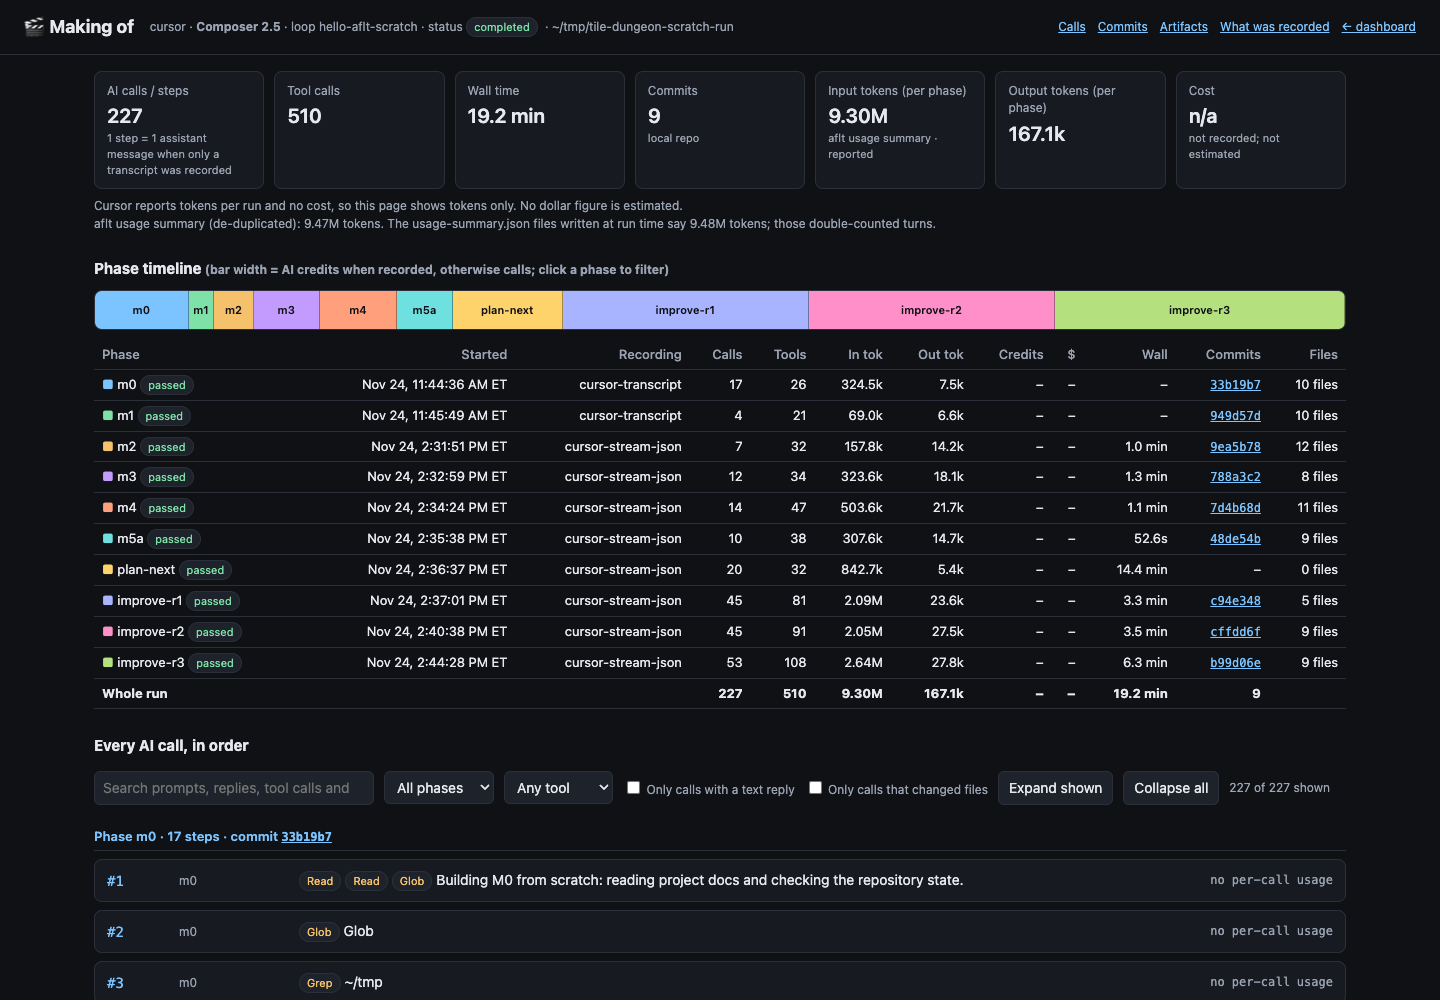
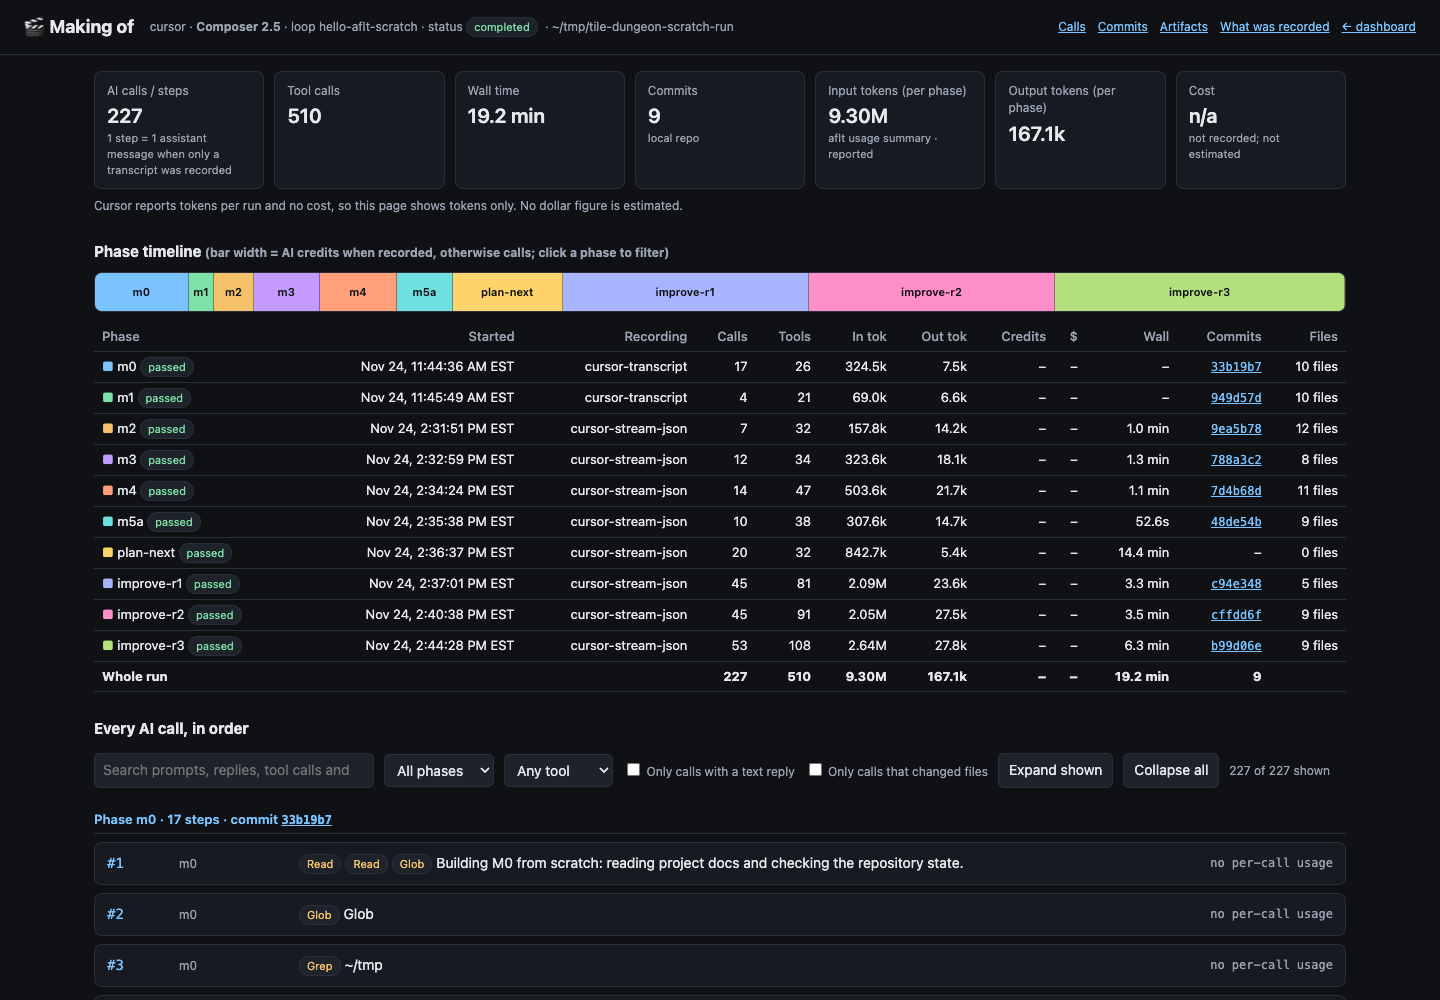
docs: refresh dashboard and making-of screenshots after the dashboard fixes
Re-captured from the live dashboard (scratch-composer and
cmp-copilot-claude-sonnet-5.5 spaces): local times with zone labels,
active elapsed time, grey disabled Stop on a completed loop, Copilot
credits and dollars in the Loops view and History summary. Adds
dashboard-loops-copilot.png; captions updated; README test count
886 passing.

Changed region(s): [[0.0625, 0.217, 0.9375, 1.0], [0.4375, 0.744, 0.9062, 0.806], [0.2812, 0.744, 0.4062, 0.806]]

diff --git a/README.md b/README.md
@@ -7,7 +7,7 @@
 <p align="center">
   <img alt="Node 20.10+" src="https://img.shields.io/badge/node-%3E%3D20.10-brightgreen?logo=node.js&logoColor=white"/>
   <img alt="version 1.5.0" src="https://img.shields.io/badge/version-1.5.0-blue"/>
-  <img alt="884 tests passing" src="https://img.shields.io/badge/tests-884%20passing-success"/>
+  <img alt="886 tests passing" src="https://img.shields.io/badge/tests-886%20passing-success"/>
   <img alt="macOS | Linux untested" src="https://img.shields.io/badge/platform-macOS%20%7C%20Linux%20untested-lightgrey"/>
   <img alt="MIT license" src="https://img.shields.io/badge/license-MIT-yellow"/>
 </p>
@@ -24,14 +24,14 @@ Zero npm runtime dependencies beyond **Node ≥20.10**. The npm name `aflt` is n
 
 Live dashboard (`aflt dashboard --serve`):
 
-![aflt dashboard — star graph of projects and sessions](docs/images/dashboard-graph.png)
-*Graph view: projects and sessions colored by Working / Waiting / Idle / Completed / Failed.*
+![aflt dashboard — star graph of a project, its loop master and phase sessions](docs/images/dashboard-graph.png)
+*Graph view (space `scratch-composer`): projects and sessions colored by Working / Waiting / Idle / Completed / Failed; the **Recent** list shows times in your local zone.*
 
-![aflt dashboard — history timeline, 7d preset](docs/images/dashboard-history.png)
-*History view: activity Gantt with completed/failed turn markers (7d preset).*
+![aflt dashboard — history timeline, all preset](docs/images/dashboard-history.png)
+*History view: activity Gantt with completed/failed turn markers (all preset, side panel hidden).*
 
-![aflt dashboard — sessions overview](docs/images/dashboard-sessions.png)
-*Sessions overview: collapsible project/session tree with live stats.*
+![aflt dashboard — sessions overview with a project selected](docs/images/dashboard-sessions.png)
+*Sessions overview (space `cmp-copilot-claude-sonnet-5.5`): collapsible project/session tree, project detail with local-time last activity, and the project's usage summary with Copilot AI credits and dollars (278.8 credits · $2.79).*
 
 ### Herdr panel
 
@@ -46,7 +46,10 @@ Install the panel and layout with `aflt setup --apply --herdr` (or `aflt herdr-a
 `aflt loop` building the [hello-aflt](examples/loops/hello-aflt/) tile-dungeon roguelike end to end. Below: the [docs-only `hello-aflt-scratch`](examples/loops/hello-aflt-scratch/) variant on Cursor `composer-2.5` (no seed code or HTML; every phase passed, eval 85.2 after M5a → 89.9 after three improve rounds).
 
 ![aflt dashboard Loops view: hello-aflt-scratch completed, phase tree m0–m5a, improve-r1–r3 with eval scores](docs/images/dashboard-loops.png)
-*Loops view (`aflt dashboard --serve`, space `scratch-composer`): status, engine/model, budget, token rollup, step pipeline, phase tree with eval scores, and the **Making of** button.*
+*Loops view (`aflt dashboard --serve`, space `scratch-composer`): status, engine/model, Started / Updated in local time, active elapsed time (20m 53s, not the 3 h wall clock since the first run), budget, token rollup, step pipeline, phase tree with eval scores, and the **Making of** button. Stop is grey and disabled because the loop has completed.*
+
+![aflt dashboard Loops view for a Copilot run: tokens, AI credits and dollars](docs/images/dashboard-loops-copilot.png)
+*Loops view for the Copilot Claude Sonnet 5.5 run: the row and the Tokens line show recorded AI credits and dollars (6.1m tok · 278.8 credits · $2.79), with a note that the totals were recomputed from per-session records (the stored rollup was double-counted).*
 
 ![aflt dashboard History view: the loop master with one session per phase](docs/images/dashboard-history-loop.png)
 *History view (24h preset): the loop master with one session per phase, each with its token count and turn markers.*
@@ -821,7 +824,7 @@ See `af --help` / `aflt help` for the authoritative flag list. Long-form help co
 npm test
 ```
 
-885 tests (Node test runner): 884 passing and 1 skipped in the hermetic suite (the skipped live `create-chat` smoke test only runs with a real `cursor-agent`). Coverage includes registry, engines, Herdr backends and the af sessions panel space picker, orchestration, messaging, MCP, docs and tutorial commands, project/timeline, project memory, live dashboard (local-time stamps, Stop state, loop credits), loops (active-time budget, script phases, verify tiers, commit gate, escalation, failover, hello-aflt and hello-aflt-scratch), making-of, usage, named spaces, eval, dry-run purity, interactive rm/stop pickers, and hermetic `AGENTFLEET_HOME` fixtures.
+887 tests (Node test runner): 886 passing and 1 skipped in the hermetic suite (the skipped live `create-chat` smoke test only runs with a real `cursor-agent`). Coverage includes registry, engines, Herdr backends and the af sessions panel space picker, orchestration, messaging, MCP, docs and tutorial commands, project/timeline, project memory, live dashboard (local-time stamps, Stop state, loop credits), loops (active-time budget, script phases, verify tiers, commit gate, escalation, failover, hello-aflt and hello-aflt-scratch), making-of, usage, named spaces, eval, dry-run purity, interactive rm/stop pickers, and hermetic `AGENTFLEET_HOME` fixtures.
 
 ## Versioning and releases
 

diff --git a/CHANGELOG.md b/CHANGELOG.md
@@ -5,6 +5,7 @@ Versions follow [Semantic Versioning](https://semver.org/); see [RELEASING.md](R
 
 ## Unreleased
 
+- **Docs screenshots refreshed** — `docs/images/` dashboard and making-of shots re-captured from the live dashboard after the fixes above: local-time stamps with a zone label, active elapsed time, the grey disabled Stop on a completed loop, and Copilot credits / dollars in the Loops view and the History usage summary. New `dashboard-loops-copilot.png` (README, tutorials 03 and 12). The graph / history / sessions shots now come from the `scratch-composer` and `cmp-copilot-claude-sonnet-5.5` spaces (home paths shown as `~`; every image ≤ 210 KB). 887 tests: 886 passing, 1 skipped.
 - **Dashboard History: Copilot credits for older sessions** — the History tree rows, project rollups and the side-panel **History** usage summary said “cost unknown” for Copilot sessions synced before credits were recorded. Their summaries now get `credits` / `usd` from the session's per-call usage records (`making-of.withPerCallCredits`, read-only and mtime-cached; `usage-summary.json` and `state.json` are never rewritten). Recorded credits always win; sessions with no per-call source (Cursor) still say “cost unknown”. Coverage in `test/dashboard-history-credits.test.js`.
 - **Dashboard Loops: Copilot credits and dollars; corrected old rollups** — the Loops view said “cost unknown” for every loop. Loop rows (tiles) now show tokens plus recorded cost (`6.1m tok · 278.8 credits · $2.79`) and the detail **Tokens** line shows credits and dollars; History session summaries and marker tooltips show credits too when recorded. Loop usage is recomputed at read time from each phase session's turns (de-duplicated, mtime-cached, never written back), so loops recorded before the double-count fix show corrected totals: the Copilot Sonnet hello-aflt run's stored 10.4M tokens is now 6.1M, and the detail adds a note with the stored figure. When older Copilot turns carry no credits, they come from the same per-call usage records as the making-of page (`making-of.sessionCostTotals`, read-only). Sonnet run: 278.8 credits / $2.79 over 104 calls; GPT-5.3-Codex: 548.8 credits / $5.49 over 246 calls. Cursor records no cost and still says “cost unknown”. Coverage in `test/loop-usage-credits.test.js`.
 - **Dashboard times in the viewer's local zone** — the **Recent** list printed raw UTC (`2026-11-24 19:37:01` for 2:37 PM Eastern). Recent, History feed entries, timeline marker tooltips and labels, session **last used** / project **last activity**, the task-completion stamp and the snapshot meta line now use `formatLocalDateTime` (browser zone plus a short label, e.g. `2026-11-24 14:37:01 EST`). The Loops detail adds **Started** / **Updated** rows in local time. The making-of page no longer hard-codes America/New_York: its times use the viewer's zone with a short label. JSON APIs keep ISO UTC; the server-rendered `--snapshot` SVG stamp stays ET. Coverage in `test/dashboard-local-time.test.js`.

diff --git a/docs/tutorial/12-token-usage.md b/docs/tutorial/12-token-usage.md
@@ -144,6 +144,8 @@ When you open the live UI (`aflt dashboard --serve` — see [03 — Dashboard](0
 
 The Loops view shows the per-loop token rollup and recorded cost in each row and in the detail (`6.1m tok · 9 turns · reported · 278.8 credits · $2.79` for the Copilot Sonnet hello-aflt run; Cursor loops say `cost unknown` because Cursor records no cost). The rollup is recomputed at read time from the phase sessions' turns, de-duplicated, so loops recorded before the double-count fix show corrected totals (that Sonnet run's stored rollup said 10.4M tokens; it is 6.1M) with a note in the detail; `state.json` is not rewritten. Copilot credits come from the same per-call usage records as the making-of page when older turns lack them. Use `aflt making-of` for per-call and per-phase figures.
 
+![Loops view for the Copilot Sonnet run: AI credits and dollars in the row and the Tokens line](../images/dashboard-loops-copilot.png)
+
 ## Memory rollup
 
 With a configured memory repo, `aflt memory sync` includes a compact `usage` object on each session line in `<project>/_aflt/sessions.jsonl`, and the generated `timeline.md` can show a project-level line such as:

diff --git a/docs/tutorial/README.md b/docs/tutorial/README.md
@@ -51,9 +51,10 @@ Screenshots that may help while you read:
 
 - [dashboard-graph.png](../images/dashboard-graph.png) — Graph view
 - [dashboard-history.png](../images/dashboard-history.png) — History Gantt
-- [dashboard-sessions.png](../images/dashboard-sessions.png) — Sessions overview
+- [dashboard-sessions.png](../images/dashboard-sessions.png) — Sessions overview (project usage with Copilot credits and $)
 - [herdr.png](../images/herdr.png) — Herdr with the af sessions panel (predates the space picker)
 - [dashboard-loops.png](../images/dashboard-loops.png) — Loops view (hello-aflt-scratch run)
+- [dashboard-loops-copilot.png](../images/dashboard-loops-copilot.png) — Loops view with Copilot credits and $
 - [dashboard-history-loop.png](../images/dashboard-history-loop.png) — a loop's phase sessions in History
 - [making-of.png](../images/making-of.png) — `aflt making-of` page (Cursor run)
 - [making-of-copilot-costs.png](../images/making-of-copilot-costs.png) — making-of with Copilot credits and $ per phase

diff --git a/docs/tutorial/03-dashboard.md b/docs/tutorial/03-dashboard.md
@@ -7,7 +7,7 @@
 - Distinguish the live UI from `aflt memory dashboard`
 - Optionally install the macOS LaunchAgent via `aflt service`
 
-Screenshots: [dashboard-graph.png](../images/dashboard-graph.png), [dashboard-history.png](../images/dashboard-history.png), [dashboard-sessions.png](../images/dashboard-sessions.png), [dashboard-loops.png](../images/dashboard-loops.png) (Loops view), [dashboard-history-loop.png](../images/dashboard-history-loop.png) (a loop's phase sessions in History).
+Screenshots: [dashboard-graph.png](../images/dashboard-graph.png), [dashboard-history.png](../images/dashboard-history.png), [dashboard-sessions.png](../images/dashboard-sessions.png), [dashboard-loops.png](../images/dashboard-loops.png) (Loops view), [dashboard-loops-copilot.png](../images/dashboard-loops-copilot.png) (Loops view with Copilot credits), [dashboard-history-loop.png](../images/dashboard-history-loop.png) (a loop's phase sessions in History).
 
 ## Serve
 
